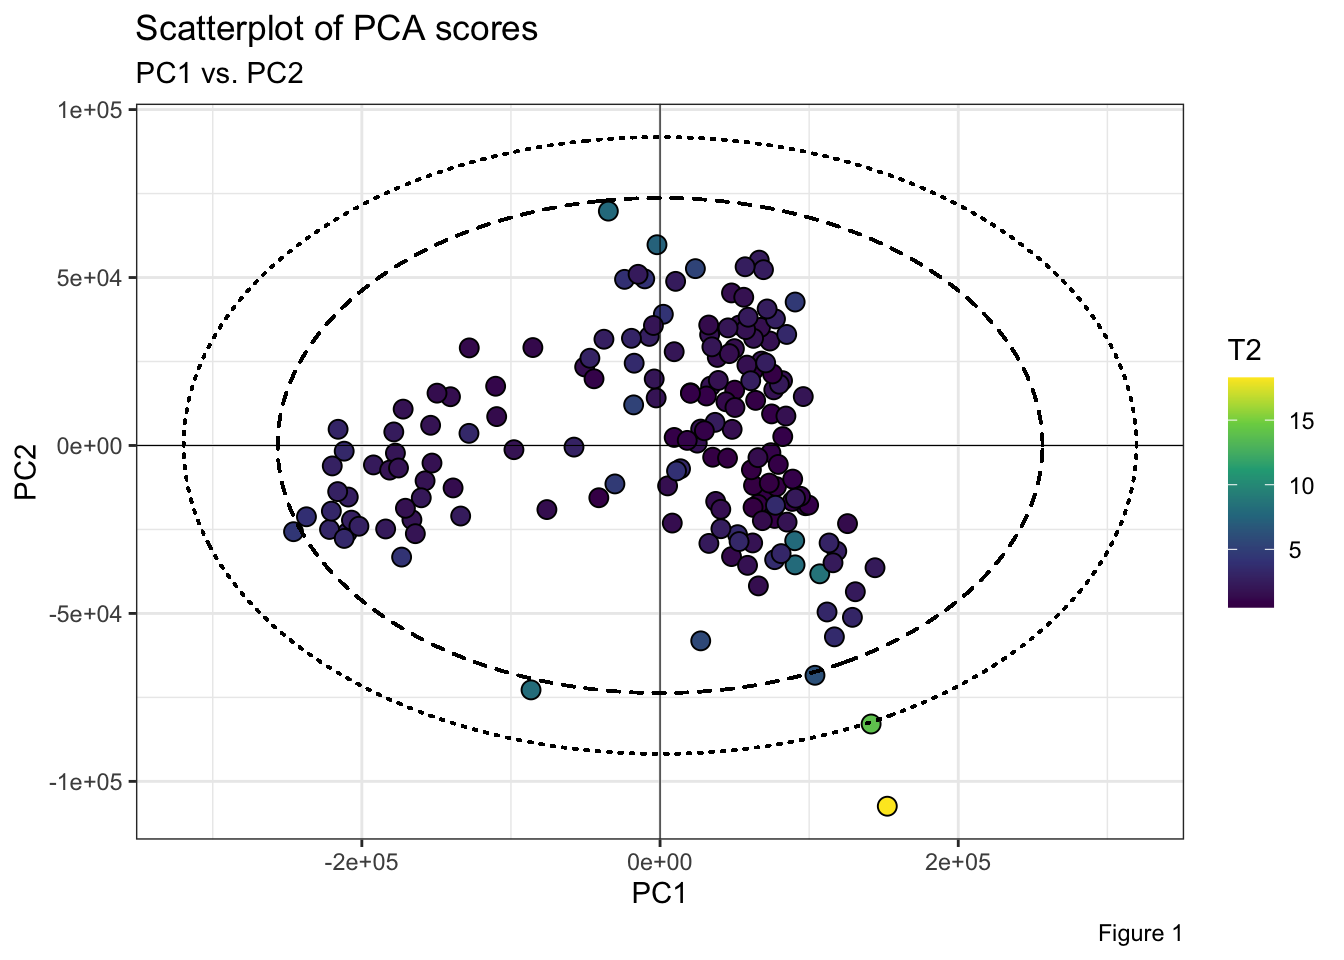
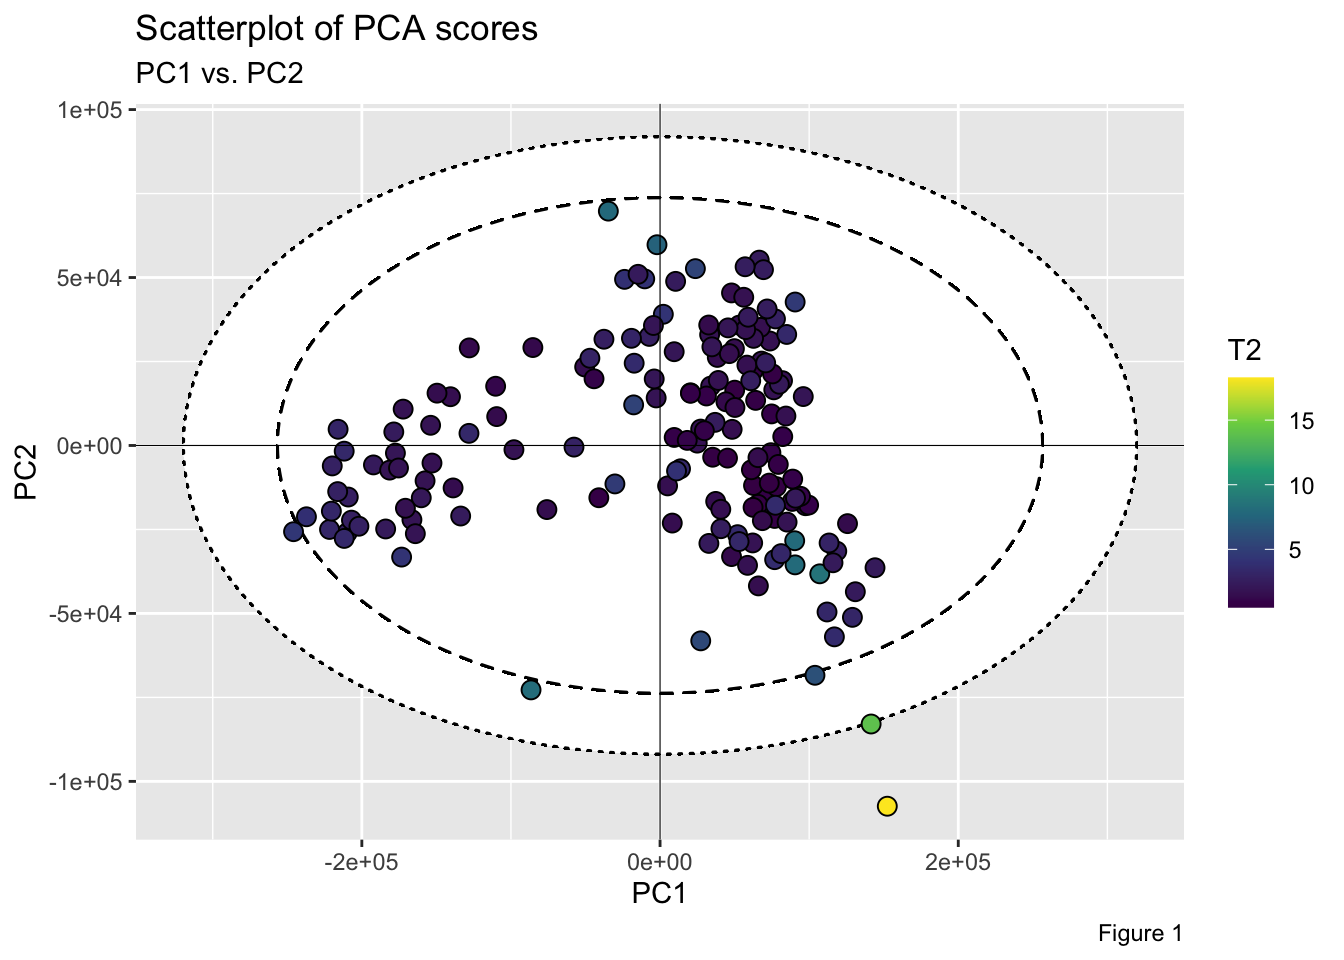
Update

diff --git a/docs/index.html b/docs/index.html
@@ -80,38 +80,41 @@
 <a href="#hotellingellipse-" class="anchor" aria-hidden="true"></a>HotellingEllipse <img src="reference/figures/logo.png" align="right" height="159">
 </h1></div>
 
-<p>HotellingEllipse computes the lengths of the semi-minor and semi-major axes for plotting Hotelling ellipse at 95% and 99% confidence intervals. The package also provides the <em>x</em>-<em>y</em> coordinates at user-defined confidence intervals.</p>
+<p><code>HotellingEllipse</code> computes the lengths of the semi-minor and semi-major axes for plotting Hotelling ellipse at 95% and 99% confidence intervals. The package also provides the <em>x</em>-<em>y</em> coordinates at user-defined confidence intervals.</p>
 <div id="installation" class="section level2">
 <h2 class="hasAnchor">
 <a href="#installation" class="anchor" aria-hidden="true"></a>Installation</h2>
-<p>Install the development version from <a href="https://github.com/" class="external-link">GitHub</a> with:</p>
+<p>Install <code>HotellingEllipse</code> from CRAN:</p>
 <div class="sourceCode" id="cb1"><pre class="downlit sourceCode r">
+<code class="sourceCode R"><span class="fu"><a href="https://rdrr.io/r/utils/install.packages.html" class="external-link">install.packages</a></span><span class="op">(</span><span class="st">"HotellingEllipe"</span><span class="op">)</span></code></pre></div>
+<p>Install the development version from GitHub:</p>
+<div class="sourceCode" id="cb2"><pre class="downlit sourceCode r">
 <code class="sourceCode R"><span class="co"># install.packages("remotes")</span>
 <span class="fu">remotes</span><span class="fu">::</span><span class="fu"><a href="https://remotes.r-lib.org/reference/install_github.html" class="external-link">install_github</a></span><span class="op">(</span><span class="st">"ChristianGoueguel/HotellingEllipse"</span><span class="op">)</span></code></pre></div>
 </div>
 <div id="usage" class="section level2">
 <h2 class="hasAnchor">
 <a href="#usage" class="anchor" aria-hidden="true"></a>Usage</h2>
-<p>Below is an overview of how HotellingEllipse can help draw a confidence ellipse:</p>
+<p>Below is an overview of how <code>HotellingEllipse</code> can help draw a confidence ellipse:</p>
 <ul>
 <li><p>using <code><a href="https://rdrr.io/pkg/FactoMineR/man/PCA.html" class="external-link">FactoMineR::PCA()</a></code> we first perform Principal Component Analysis (PCA) from a LIBS spectral dataset <code>data("specData")</code> and extract the PCA scores.</p></li>
 <li><p>with <code><a href="reference/ellipseParam.html">ellipseParam()</a></code> we get the T<sup>2</sup> value along with the values of the semi-minor and semi-major axes. Whereas, <code><a href="reference/ellipseCoord.html">ellipseCoord()</a></code> provides the <em>x</em> and <em>y</em> coordinates for drawing the Hotelling ellipse at user-defined confidence interval.</p></li>
 <li><p>using <code><a href="https://ggplot2.tidyverse.org/reference/ggplot.html" class="external-link">ggplot2::ggplot()</a></code> and <code><a href="https://ggforce.data-imaginist.com/reference/geom_ellipse.html" class="external-link">ggforce::geom_ellipse()</a></code> we plot the scatterplot of PCA scores as well as the corresponding Hotelling ellipse which represents the confidence region for the joint variables at 99% and 95% confidence intervals.</p></li>
 </ul>
 <p><strong>Step 1.</strong> Load the package.</p>
-<div class="sourceCode" id="cb2"><pre class="downlit sourceCode r">
+<div class="sourceCode" id="cb3"><pre class="downlit sourceCode r">
 <code class="sourceCode R"><span class="kw"><a href="https://rdrr.io/r/base/library.html" class="external-link">library</a></span><span class="op">(</span><span class="va"><a href="https://github.com/ChristianGoueguel/HotellingEllipse" class="external-link">HotellingEllipse</a></span><span class="op">)</span></code></pre></div>
 <p><strong>Step 2.</strong> Load LIBS dataset into R session.</p>
-<div class="sourceCode" id="cb3"><pre class="downlit sourceCode r">
+<div class="sourceCode" id="cb4"><pre class="downlit sourceCode r">
 <code class="sourceCode R"><span class="fu"><a href="https://rdrr.io/r/utils/data.html" class="external-link">data</a></span><span class="op">(</span><span class="st">"specData"</span><span class="op">)</span></code></pre></div>
 <p><strong>Step 3.</strong> Perform principal component analysis.</p>
-<div class="sourceCode" id="cb4"><pre class="downlit sourceCode r">
+<div class="sourceCode" id="cb5"><pre class="downlit sourceCode r">
 <code class="sourceCode R"><span class="fu"><a href="https://rdrr.io/r/base/Random.html" class="external-link">set.seed</a></span><span class="op">(</span><span class="fl">123</span><span class="op">)</span>
 <span class="va">pca_mod</span> <span class="op">&lt;-</span> <span class="va">specData</span> <span class="op"><a href="reference/pipe.html">%&gt;%</a></span>
   <span class="fu">select</span><span class="op">(</span><span class="fu">where</span><span class="op">(</span><span class="va">is.numeric</span><span class="op">)</span><span class="op">)</span> <span class="op"><a href="reference/pipe.html">%&gt;%</a></span>
   <span class="fu">PCA</span><span class="op">(</span>scale.unit <span class="op">=</span> <span class="cn">FALSE</span>, graph <span class="op">=</span> <span class="cn">FALSE</span><span class="op">)</span></code></pre></div>
 <p><strong>Step 4.</strong> Extract PCA scores.</p>
-<div class="sourceCode" id="cb5"><pre class="downlit sourceCode r">
+<div class="sourceCode" id="cb6"><pre class="downlit sourceCode r">
 <code class="sourceCode R"><span class="va">pca_scores</span> <span class="op">&lt;-</span> <span class="va">pca_mod</span> <span class="op"><a href="reference/pipe.html">%&gt;%</a></span>
   <span class="fu">pluck</span><span class="op">(</span><span class="st">"ind"</span>, <span class="st">"coord"</span><span class="op">)</span> <span class="op"><a href="reference/pipe.html">%&gt;%</a></span>
   <span class="fu">as_tibble</span><span class="op">(</span><span class="op">)</span> <span class="op"><a href="reference/pipe.html">%&gt;%</a></span>
@@ -131,9 +134,9 @@
 <span class="co">#&gt; 10  68042.  25124. -26063. -19389.   6051.</span>
 <span class="co">#&gt; # … with 161 more rows</span></code></pre></div>
 <p><strong>Step 5.</strong> Run <code><a href="reference/ellipseParam.html">ellipseParam()</a></code> for the first two principal components (<strong>k = 2</strong>). We want to compute the length of the semi-axes of the Hotelling ellipse (denoted <strong>a</strong> and <strong>b</strong>) when the first principal component, PC1, is on the <em>x</em>-axis (<strong>pcx = 1</strong>) and, the second principal component, PC2, is on the <em>y</em>-axis (<strong>pcy = 2</strong>).</p>
-<div class="sourceCode" id="cb6"><pre class="downlit sourceCode r">
-<code class="sourceCode R"><span class="va">res_2PCs</span> <span class="op">&lt;-</span> <span class="fu"><a href="reference/ellipseParam.html">ellipseParam</a></span><span class="op">(</span>data <span class="op">=</span> <span class="va">pca_scores</span>, k <span class="op">=</span> <span class="fl">2</span>, pcx <span class="op">=</span> <span class="fl">1</span>, pcy <span class="op">=</span> <span class="fl">2</span><span class="op">)</span></code></pre></div>
 <div class="sourceCode" id="cb7"><pre class="downlit sourceCode r">
+<code class="sourceCode R"><span class="va">res_2PCs</span> <span class="op">&lt;-</span> <span class="fu"><a href="reference/ellipseParam.html">ellipseParam</a></span><span class="op">(</span>data <span class="op">=</span> <span class="va">pca_scores</span>, k <span class="op">=</span> <span class="fl">2</span>, pcx <span class="op">=</span> <span class="fl">1</span>, pcy <span class="op">=</span> <span class="fl">2</span><span class="op">)</span></code></pre></div>
+<div class="sourceCode" id="cb8"><pre class="downlit sourceCode r">
 <code class="sourceCode R"><span class="fu"><a href="https://rdrr.io/r/utils/str.html" class="external-link">str</a></span><span class="op">(</span><span class="va">res_2PCs</span><span class="op">)</span>
 <span class="co">#&gt; List of 4</span>
 <span class="co">#&gt;  $ Tsquare     : tibble[,1] [171 × 1] (S3: tbl_df/tbl/data.frame)</span>
@@ -148,52 +151,52 @@
 <ul>
 <li>Semi-axes of the ellipse at 99% confidence level.</li>
 </ul>
-<div class="sourceCode" id="cb8"><pre class="downlit sourceCode r">
+<div class="sourceCode" id="cb9"><pre class="downlit sourceCode r">
 <code class="sourceCode R"><span class="va">a1</span> <span class="op">&lt;-</span> <span class="fu">pluck</span><span class="op">(</span><span class="va">res_2PCs</span>, <span class="st">"Ellipse"</span>, <span class="st">"a.99pct"</span><span class="op">)</span>
 <span class="va">b1</span> <span class="op">&lt;-</span> <span class="fu">pluck</span><span class="op">(</span><span class="va">res_2PCs</span>, <span class="st">"Ellipse"</span>, <span class="st">"b.99pct"</span><span class="op">)</span></code></pre></div>
 <ul>
 <li>Semi-axes of the ellipse at 95% confidence level.</li>
 </ul>
-<div class="sourceCode" id="cb9"><pre class="downlit sourceCode r">
+<div class="sourceCode" id="cb10"><pre class="downlit sourceCode r">
 <code class="sourceCode R"><span class="va">a2</span> <span class="op">&lt;-</span> <span class="fu">pluck</span><span class="op">(</span><span class="va">res_2PCs</span>, <span class="st">"Ellipse"</span>, <span class="st">"a.95pct"</span><span class="op">)</span>
 <span class="va">b2</span> <span class="op">&lt;-</span> <span class="fu">pluck</span><span class="op">(</span><span class="va">res_2PCs</span>, <span class="st">"Ellipse"</span>, <span class="st">"b.95pct"</span><span class="op">)</span></code></pre></div>
 <ul>
 <li>Hotelling’s T<sup>2</sup>.</li>
 </ul>
-<div class="sourceCode" id="cb10"><pre class="downlit sourceCode r">
+<div class="sourceCode" id="cb11"><pre class="downlit sourceCode r">
 <code class="sourceCode R"><span class="va">T2</span> <span class="op">&lt;-</span> <span class="fu">pluck</span><span class="op">(</span><span class="va">res_2PCs</span>, <span class="st">"Tsquare"</span>, <span class="st">"value"</span><span class="op">)</span></code></pre></div>
 <p>Another way to add Hotelling ellipse on the scatterplot of the scores is to use the function <code><a href="reference/ellipseCoord.html">ellipseCoord()</a></code>. This function provides the <em>x</em> and <em>y</em> coordinates of the confidence ellipse at user-defined confidence interval. The confidence interval <code>confi.limit</code> is set at 95% by default.</p>
-<div class="sourceCode" id="cb11"><pre class="downlit sourceCode r">
-<code class="sourceCode R"><span class="va">coord_2PCs</span> <span class="op">&lt;-</span> <span class="fu"><a href="reference/ellipseCoord.html">ellipseCoord</a></span><span class="op">(</span>data <span class="op">=</span> <span class="va">pca_scores</span>, pcx <span class="op">=</span> <span class="fl">1</span>, pcy <span class="op">=</span> <span class="fl">2</span>, conf.limit <span class="op">=</span> <span class="fl">0.95</span>, pts <span class="op">=</span> <span class="fl">500</span><span class="op">)</span></code></pre></div>
 <div class="sourceCode" id="cb12"><pre class="downlit sourceCode r">
+<code class="sourceCode R"><span class="va">coord_2PCs</span> <span class="op">&lt;-</span> <span class="fu"><a href="reference/ellipseCoord.html">ellipseCoord</a></span><span class="op">(</span>data <span class="op">=</span> <span class="va">pca_scores</span>, pcx <span class="op">=</span> <span class="fl">1</span>, pcy <span class="op">=</span> <span class="fl">2</span>, conf.limit <span class="op">=</span> <span class="fl">0.95</span>, pts <span class="op">=</span> <span class="fl">500</span><span class="op">)</span></code></pre></div>
+<div class="sourceCode" id="cb13"><pre class="downlit sourceCode r">
 <code class="sourceCode R"><span class="fu"><a href="https://rdrr.io/r/utils/str.html" class="external-link">str</a></span><span class="op">(</span><span class="va">coord_2PCs</span><span class="op">)</span>
 <span class="co">#&gt; tibble[,2] [500 × 2] (S3: tbl_df/tbl/data.frame)</span>
 <span class="co">#&gt;  $ x: num [1:500] 256487 256466 256405 256304 256161 ...</span>
 <span class="co">#&gt;  $ y: num [1:500] 7.20e-12 9.28e+02 1.86e+03 2.78e+03 3.71e+03 ...</span></code></pre></div>
 <p><strong>Step 6.</strong> Plot PC1 <em>vs.</em> PC2 scatterplot, with the two corresponding Hotelling ellipse. Points inside the two elliptical regions are within the 99% and 95% confidence limits for T<sup>2</sup>.</p>
-<div class="sourceCode" id="cb13"><pre class="downlit sourceCode r">
+<div class="sourceCode" id="cb14"><pre class="downlit sourceCode r">
 <code class="sourceCode R"><span class="va">pca_scores</span> <span class="op"><a href="reference/pipe.html">%&gt;%</a></span>
   <span class="fu">ggplot</span><span class="op">(</span><span class="fu">aes</span><span class="op">(</span>x <span class="op">=</span> <span class="va">Dim.1</span>, y <span class="op">=</span> <span class="va">Dim.2</span><span class="op">)</span><span class="op">)</span> <span class="op">+</span>
+  <span class="fu">geom_ellipse</span><span class="op">(</span><span class="fu">aes</span><span class="op">(</span>x0 <span class="op">=</span> <span class="fl">0</span>, y0 <span class="op">=</span> <span class="fl">0</span>, a <span class="op">=</span> <span class="va">a1</span>, b <span class="op">=</span> <span class="va">b1</span>, angle <span class="op">=</span> <span class="fl">0</span><span class="op">)</span>, size <span class="op">=</span> <span class="fl">.5</span>, linetype <span class="op">=</span> <span class="st">"dotted"</span>, fill <span class="op">=</span> <span class="st">"white"</span><span class="op">)</span> <span class="op">+</span>
+  <span class="fu">geom_ellipse</span><span class="op">(</span><span class="fu">aes</span><span class="op">(</span>x0 <span class="op">=</span> <span class="fl">0</span>, y0 <span class="op">=</span> <span class="fl">0</span>, a <span class="op">=</span> <span class="va">a2</span>, b <span class="op">=</span> <span class="va">b2</span>, angle <span class="op">=</span> <span class="fl">0</span><span class="op">)</span>, size <span class="op">=</span> <span class="fl">.5</span>, linetype <span class="op">=</span> <span class="st">"dashed"</span>, fill <span class="op">=</span> <span class="st">"white"</span><span class="op">)</span> <span class="op">+</span>
   <span class="fu">geom_point</span><span class="op">(</span><span class="fu">aes</span><span class="op">(</span>fill <span class="op">=</span> <span class="va">T2</span><span class="op">)</span>, shape <span class="op">=</span> <span class="fl">21</span>, size <span class="op">=</span> <span class="fl">3</span>, color <span class="op">=</span> <span class="st">"black"</span><span class="op">)</span> <span class="op">+</span>
   <span class="fu">scale_fill_viridis_c</span><span class="op">(</span>option <span class="op">=</span> <span class="st">"viridis"</span><span class="op">)</span> <span class="op">+</span>
-  <span class="fu">geom_ellipse</span><span class="op">(</span><span class="fu">aes</span><span class="op">(</span>x0 <span class="op">=</span> <span class="fl">0</span>, y0 <span class="op">=</span> <span class="fl">0</span>, a <span class="op">=</span> <span class="va">a1</span>, b <span class="op">=</span> <span class="va">b1</span>, angle <span class="op">=</span> <span class="fl">0</span><span class="op">)</span>, size <span class="op">=</span> <span class="fl">.5</span>, linetype <span class="op">=</span> <span class="st">"dotted"</span><span class="op">)</span> <span class="op">+</span> 
-  <span class="fu">geom_ellipse</span><span class="op">(</span><span class="fu">aes</span><span class="op">(</span>x0 <span class="op">=</span> <span class="fl">0</span>, y0 <span class="op">=</span> <span class="fl">0</span>, a <span class="op">=</span> <span class="va">a2</span>, b <span class="op">=</span> <span class="va">b2</span>, angle <span class="op">=</span> <span class="fl">0</span><span class="op">)</span>, size <span class="op">=</span> <span class="fl">.5</span>, linetype <span class="op">=</span> <span class="st">"dashed"</span><span class="op">)</span> <span class="op">+</span>
   <span class="fu">geom_hline</span><span class="op">(</span>yintercept <span class="op">=</span> <span class="fl">0</span>, linetype <span class="op">=</span> <span class="st">"solid"</span>, color <span class="op">=</span> <span class="st">"black"</span>, size <span class="op">=</span> <span class="fl">.2</span><span class="op">)</span> <span class="op">+</span>
   <span class="fu">geom_vline</span><span class="op">(</span>xintercept <span class="op">=</span> <span class="fl">0</span>, linetype <span class="op">=</span> <span class="st">"solid"</span>, color <span class="op">=</span> <span class="st">"black"</span>, size <span class="op">=</span> <span class="fl">.2</span><span class="op">)</span> <span class="op">+</span>
   <span class="fu">labs</span><span class="op">(</span>title <span class="op">=</span> <span class="st">"Scatterplot of PCA scores"</span>, subtitle <span class="op">=</span> <span class="st">"PC1 vs. PC2"</span>, x <span class="op">=</span> <span class="st">"PC1"</span>, y <span class="op">=</span> <span class="st">"PC2"</span>, fill <span class="op">=</span> <span class="st">"T2"</span>, caption <span class="op">=</span> <span class="st">"Figure 1"</span><span class="op">)</span> <span class="op">+</span>
-  <span class="fu">theme_bw</span><span class="op">(</span><span class="op">)</span></code></pre></div>
+  <span class="fu">theme_grey</span><span class="op">(</span><span class="op">)</span></code></pre></div>
 <p><img src="reference/figures/README-unnamed-chunk-14-1.png" width="90%" height="90%"></p>
 <p><strong>Note:</strong> The easiest way to analyze and interpret Hotelling’s T<sup>2</sup> for more than two principal components, is to plot Observations <em>vs.</em> Hotelling’s T<sup>2</sup> where the confidence limits are plotted as a line. Thus, observations below the two lines are within the T<sup>2</sup> limits. For example, below, <code><a href="reference/ellipseParam.html">ellipseParam()</a></code> is used with the first three principal components (<strong>k = 3</strong>).</p>
-<div class="sourceCode" id="cb14"><pre class="downlit sourceCode r">
-<code class="sourceCode R"><span class="va">res_3PCs</span> <span class="op">&lt;-</span> <span class="fu"><a href="reference/ellipseParam.html">ellipseParam</a></span><span class="op">(</span>data <span class="op">=</span> <span class="va">pca_scores</span>, k <span class="op">=</span> <span class="fl">3</span><span class="op">)</span></code></pre></div>
 <div class="sourceCode" id="cb15"><pre class="downlit sourceCode r">
+<code class="sourceCode R"><span class="va">res_3PCs</span> <span class="op">&lt;-</span> <span class="fu"><a href="reference/ellipseParam.html">ellipseParam</a></span><span class="op">(</span>data <span class="op">=</span> <span class="va">pca_scores</span>, k <span class="op">=</span> <span class="fl">3</span><span class="op">)</span></code></pre></div>
+<div class="sourceCode" id="cb16"><pre class="downlit sourceCode r">
 <code class="sourceCode R"><span class="fu"><a href="https://rdrr.io/r/utils/str.html" class="external-link">str</a></span><span class="op">(</span><span class="va">res_3PCs</span><span class="op">)</span>
 <span class="co">#&gt; List of 3</span>
 <span class="co">#&gt;  $ Tsquare     : tibble[,1] [171 × 1] (S3: tbl_df/tbl/data.frame)</span>
 <span class="co">#&gt;   ..$ value: num [1:171] 1.51 1.757 5.299 5.722 0.697 ...</span>
 <span class="co">#&gt;  $ cutoff.99pct: num 11.8</span>
 <span class="co">#&gt;  $ cutoff.95pct: num 8.07</span></code></pre></div>
-<div class="sourceCode" id="cb16"><pre class="downlit sourceCode r">
+<div class="sourceCode" id="cb17"><pre class="downlit sourceCode r">
 <code class="sourceCode R"><span class="fu">tibble</span><span class="op">(</span>
   T2 <span class="op">=</span> <span class="fu">pluck</span><span class="op">(</span><span class="va">res_3PCs</span>, <span class="st">"Tsquare"</span>, <span class="st">"value"</span><span class="op">)</span>, 
   obs <span class="op">=</span> <span class="fl">1</span><span class="op">:</span><span class="fu"><a href="https://rdrr.io/r/base/nrow.html" class="external-link">nrow</a></span><span class="op">(</span><span class="va">pca_scores</span><span class="op">)</span>
@@ -217,6 +220,8 @@
     <div class="links">
 <h2 data-toc-skip>Links</h2>
 <ul class="list-unstyled">
+<li>Download from CRAN at <br><a href="https://cloud.r-project.org/package=HotellingEllipse">https://cloud.r-project.org/package=HotellingEllipse</a>
+</li>
 <li>Browse source code at <br><a href="https://github.com/ChristianGoueguel/HotellingEllipse/">https://github.com/ChristianGoueguel/HotellingEllipse/</a>
 </li>
 <li>Report a bug at <br><a href="https://github.com/ChristianGoueguel/HotellingEllipse/issues">https://github.com/ChristianGoueguel/HotellingEllipse/issues</a>

diff --git a/README.md b/README.md
@@ -12,7 +12,7 @@ stable](https://img.shields.io/badge/lifecycle-stable-brightgreen.svg)](https://
 status](https://www.r-pkg.org/badges/version/HotellingEllipse)](https://CRAN.R-project.org/package=HotellingEllipse)
 <!-- badges: end -->
 
-HotellingEllipse computes the lengths of the semi-minor and semi-major
+`HotellingEllipse` computes the lengths of the semi-minor and semi-major
 axes for plotting Hotelling ellipse at 95% and 99% confidence intervals.
 The package also provides the *x*-*y* coordinates at user-defined
 confidence intervals.
@@ -22,7 +22,7 @@ confidence intervals.
 Install `HotellingEllipse` from CRAN:
 
 ``` r
-install.packages("HotellingEllipse")
+install.packages("HotellingEllipe")
 ```
 
 Install the development version from GitHub:
@@ -34,8 +34,8 @@ remotes::install_github("ChristianGoueguel/HotellingEllipse")
 
 ## Usage
 
-Below is an overview of how HotellingEllipse can help draw a confidence
-ellipse:
+Below is an overview of how `HotellingEllipse` can help draw a
+confidence ellipse:
 
 -   using `FactoMineR::PCA()` we first perform Principal Component
     Analysis (PCA) from a LIBS spectral dataset `data("specData")` and
@@ -163,14 +163,14 @@ the 99% and 95% confidence limits for T<sup>2</sup>.
 ``` r
 pca_scores %>%
   ggplot(aes(x = Dim.1, y = Dim.2)) +
+  geom_ellipse(aes(x0 = 0, y0 = 0, a = a1, b = b1, angle = 0), size = .5, linetype = "dotted", fill = "white") +
+  geom_ellipse(aes(x0 = 0, y0 = 0, a = a2, b = b2, angle = 0), size = .5, linetype = "dashed", fill = "white") +
   geom_point(aes(fill = T2), shape = 21, size = 3, color = "black") +
   scale_fill_viridis_c(option = "viridis") +
-  geom_ellipse(aes(x0 = 0, y0 = 0, a = a1, b = b1, angle = 0), size = .5, linetype = "dotted") + 
-  geom_ellipse(aes(x0 = 0, y0 = 0, a = a2, b = b2, angle = 0), size = .5, linetype = "dashed") +
   geom_hline(yintercept = 0, linetype = "solid", color = "black", size = .2) +
   geom_vline(xintercept = 0, linetype = "solid", color = "black", size = .2) +
   labs(title = "Scatterplot of PCA scores", subtitle = "PC1 vs. PC2", x = "PC1", y = "PC2", fill = "T2", caption = "Figure 1") +
-  theme_bw()
+  theme_grey()
 ```
 
 <img src="man/figures/README-unnamed-chunk-14-1.png" width="90%" height="90%" />
